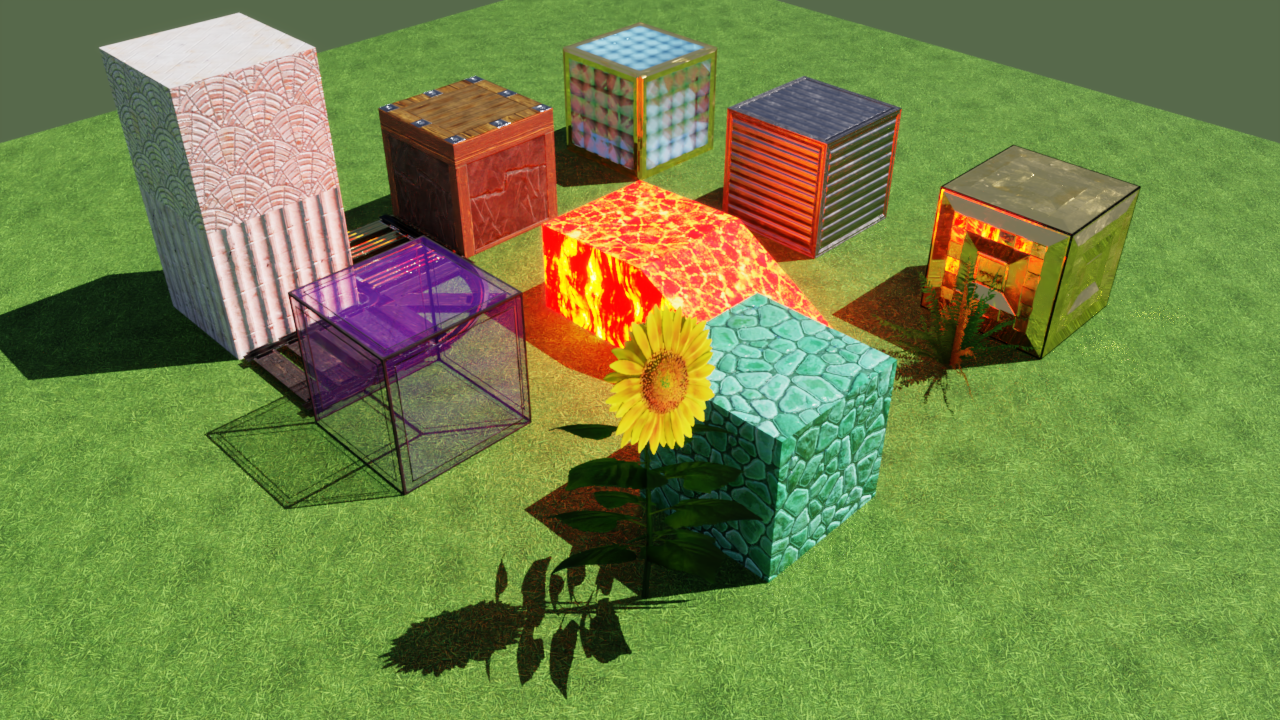
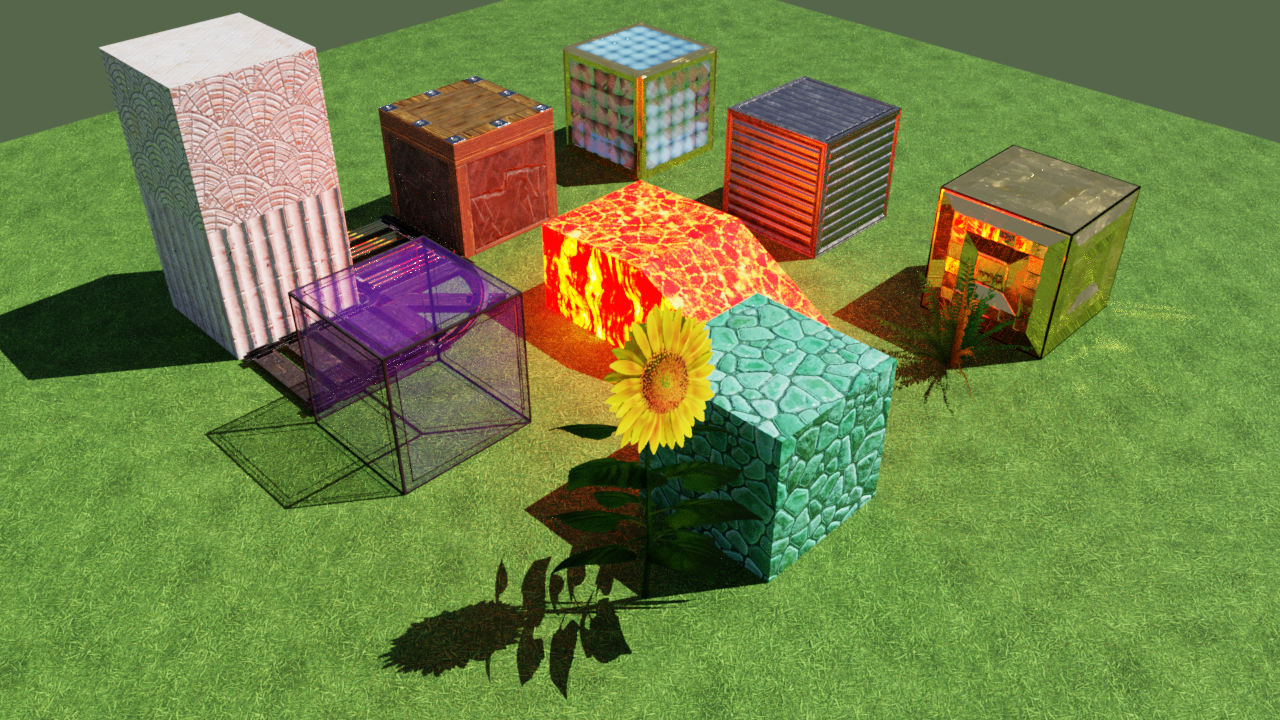
remove unnecessary renderSettings, redo

diff --git a/README.md b/README.md
@@ -169,11 +169,34 @@ Note simplifications occur, such as opaque shadows for semitransparent objects. 
 
 which trades speed for better-quality semitransparent results, such as with the purple stained glass block.
 
-The "Omniverse RTX - Accurate (Iray)" renderer uses the Iray ray tracer. Here is the render after around 140 frames:
+The "Omniverse RTX - Accurate (Iray)" renderer uses the Iray ray tracer. Here is the render after about 270 frames:
 
 ![Omniverse RTX - Accurate (Iray)](/images/ov_accurate.png "Omniverse RTX - Accurate (Iray)")
 
 Differences with the interactive version include less color on the semitransparent glass block on the left. Though not obvious, the lava is a bit dimmer. In the "Accurate" render a bit of a noisy caustic can be seen on the grass to the right of the gold block.
+
+#### Omniverse adjustments
+
+In the McUsd.usda file are some render settings at the top that are specific to Omniverse:
+
+    token "rtx:rendermode" = "PathTracing"
+    int "rtx:pathtracing:totalSpp" = 1000
+    double "rtx:post:tonemap:cameraShutter" = 10
+    double "rtx:post:tonemap:filmIso" = 1000
+    bool "rtx:raytracing:fractionalCutoutOpacity" = 1
+    double "rtx:sceneDb:ambientLightIntensity" = 0.0
+
+The first two specify using an Omniverse path tracer by default and capping at 1000 samples per pixel. Turning on the fractionalCutoffOpacity favors quality over speed for the Omniverse real-time renderer, providing better semitransparency. The last turns off ambient lighting.
+
+This leave the two camera exposure settings. I wanted to have emissive surfaces' effects still be visible even with any scene being in full sun. The lighting I chose are 30 for the sun, 6 for the domeLight, with a somewhat more real-world 1000 (nits) for emissive surfaces. To compensate for the low sunlight and domeLight values, I give Omniverse higher exposure settings: 1/10th of a second shutter, 1000 ISO (and f-stop of 5.0, the default in Omniverse). If these two post:tonemap exposure settings are removed, the Sun should be set to an Intensity of about 1550, the DomeLight to 310, and the emissive surfaces (the two lava materials) should have inputs:scale to 53000 instead of 1000. I provide this file as McUsd_no_exposure.usda. This file tends to blow out the appearance of lava even more in other applications such as USDView.
+
+Please note that these settings are used as of September 2022, but their use and names may of course change over time.
+
+Note also the presence of:
+
+    metersPerUnit = 1
+
+By default USD uses centimeters as its units. Minecraft blocks are 1 meter "in real life", so this setting makes it so that all mesh descriptions are in meters. This looks cleaner and saves a lot of extraneous zeroes in the USDA file.
 
 ## Sketchfab
 

diff --git a/model/README.md b/model/README.md
@@ -3,6 +3,7 @@ Go to the [main page](https://github.com/erich666/McUsd) for an explanation and 
 
 The files in this directory include:
 * McUsd.usda - the main test file
+* McUsd.usda - as noted in "Omniverse adjustments" on the [main page](https://github.com/erich666/McUsd), render settings are included for Omniverse that adjust the camera's default exposure. This file boosts all lights by a factor of about 53x and removes these camera exposure settings to give a comparable USD test file.
 * McUsd_normal_normals.usda - for all normal maps the bias is set to (-1,-1,-1,-1) and scale to (2,2,2,2). This is meant as a debug test file and should display differently (normals will look lit from below) if the USD reader being tested does not use the bias and scale values. Visit the [unit_tests/cubes_r_normals subdirectory](/unit_tests/cubes_r_normals) for a more thorough test scene.
 * McUsd_unscaled_lava.usda - the two emissive lava textures are not scaled up by 1000 in this version. This helps in testing whether the scale is affecting the display of the lava itself.
 

diff --git a/unit_tests/cubes_r_normals/README.md b/unit_tests/cubes_r_normals/README.md
@@ -101,6 +101,16 @@ Here the green (Y) component is negated in both bias and scale. This type of adj
 
 Compare r_normal_map_reversed_x.png with r_normal_map.png and you'll see the "reddish" and "dark greenish teal" parts of the map are swapped. For r_normal_map_reversed_y.png the "greenish" parts are swapped with the "dark bluish purple" parts.
 
+## Omniverse Create
+
+I am not going to go through a thorough testing of as many viewers as I can find, as done with [McUsd](/).
+
+Omniverse Create looks about as I'd expect it. I did set one render setting in the test file cubes_r_normals.usda:
+
+    double "rtx:sceneDb:ambientLightIntensity" = 0.0
+
+This turns off the fairly bright ambient light used in real-time rendering mode so that the bump effect has more contrast.
+
 ---
 ## License
 
